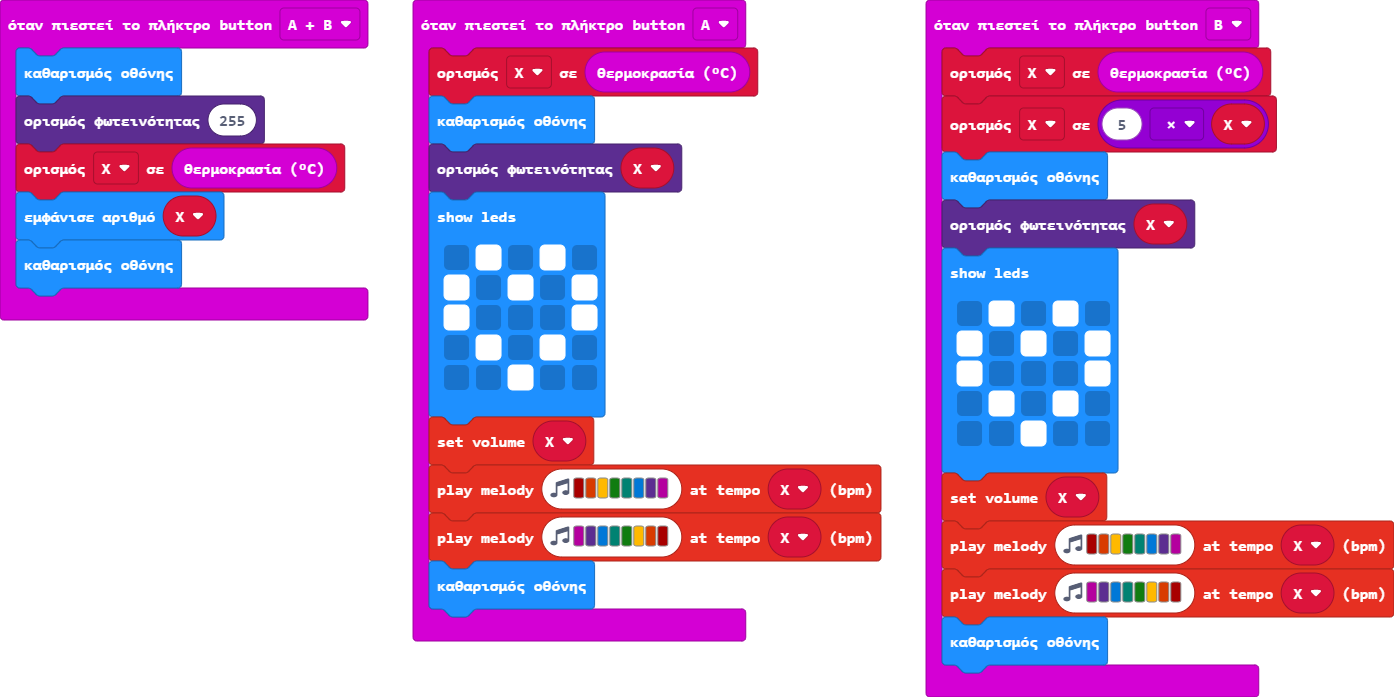
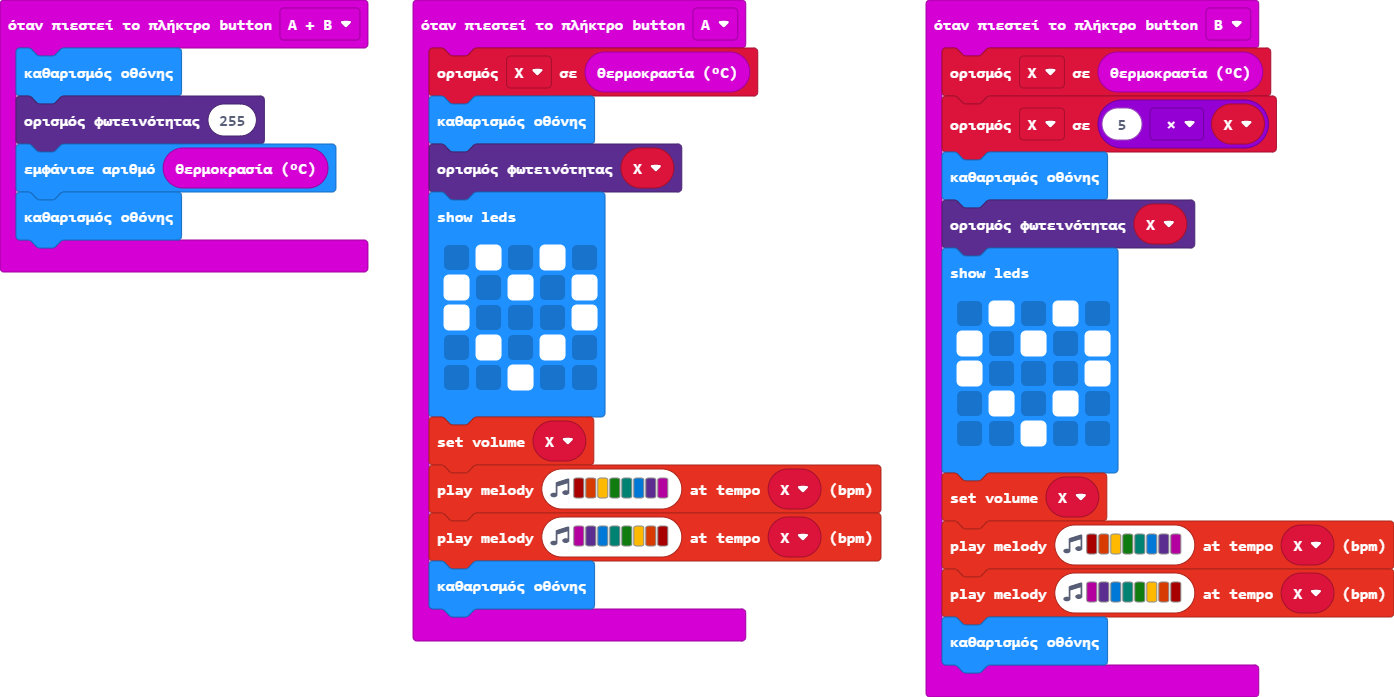
Ενημέρωση main.blocks, main.ts

Changed region(s): [[0.0, 0.1808, 0.2776, 0.4821]]

diff --git a/main.ts b/main.ts
@@ -2,8 +2,7 @@ let Χ = 0
 input.onButtonPressed(Button.AB, function () {
     basic.clearScreen()
     led.setBrightness(255)
-    Χ = input.temperature()
-    basic.showNumber(Χ)
+    basic.showNumber(input.temperature())
     basic.clearScreen()
 })
 input.onButtonPressed(Button.A, function () {
@@ -24,8 +23,9 @@ input.onButtonPressed(Button.A, function () {
 })
 input.onButtonPressed(Button.B, function () {
     Χ = input.temperature()
+    Χ = 5 * Χ
     basic.clearScreen()
-    led.setBrightness(5 * Χ)
+    led.setBrightness(Χ)
     basic.showLeds(`
         . # . # .
         # . # . #
@@ -34,7 +34,7 @@ input.onButtonPressed(Button.B, function () {
         . . # . .
         `)
     music.setVolume(Χ)
-    music.playMelody("C5 B A G F E D C ", 10 * Χ)
-    music.playMelody("C D E F G A B C5 ", 10 * Χ)
+    music.playMelody("C5 B A G F E D C ", Χ)
+    music.playMelody("C D E F G A B C5 ", Χ)
     basic.clearScreen()
 })
